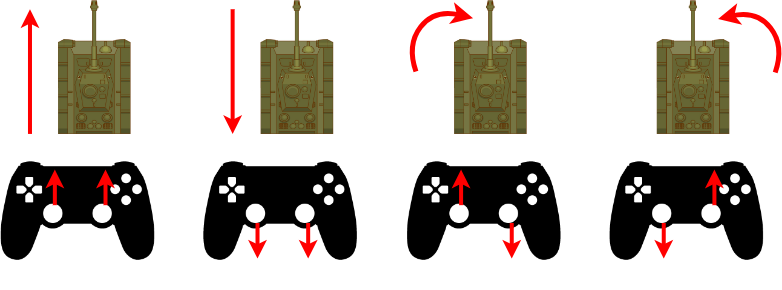
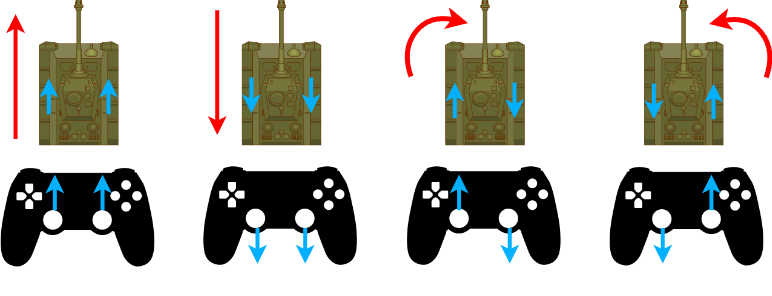
Fixing picture

diff --git a/src/wr_drive_msgs/README.md b/src/wr_drive_msgs/README.md
@@ -9,6 +9,6 @@ This package contains the definitions for the drive command messages.  That's it
 
 This message is used to define the communications for logic-layer nodes on the drive speeds.  This message is based on directly controlling a tank-drive drivetrain, where the left and right power are used in conjunction to drive and steer.  See the below diagram for details:
 
-![Tank Drive Controls](TankDriveControls.png)
+![Tank Drive Controls](control_scheme_tank_drive.png)
 
 The left and right power levels are always required in the same message.  This implies that anyone publishing to the hardware drive topic is *owning* the drive system, exclusively.  Arbitration between multiple nodes that want to own drive system controls should multiplex via a mechaism like [ROS `topic_tools` mux](http://wiki.ros.org/topic_tools/mux).
